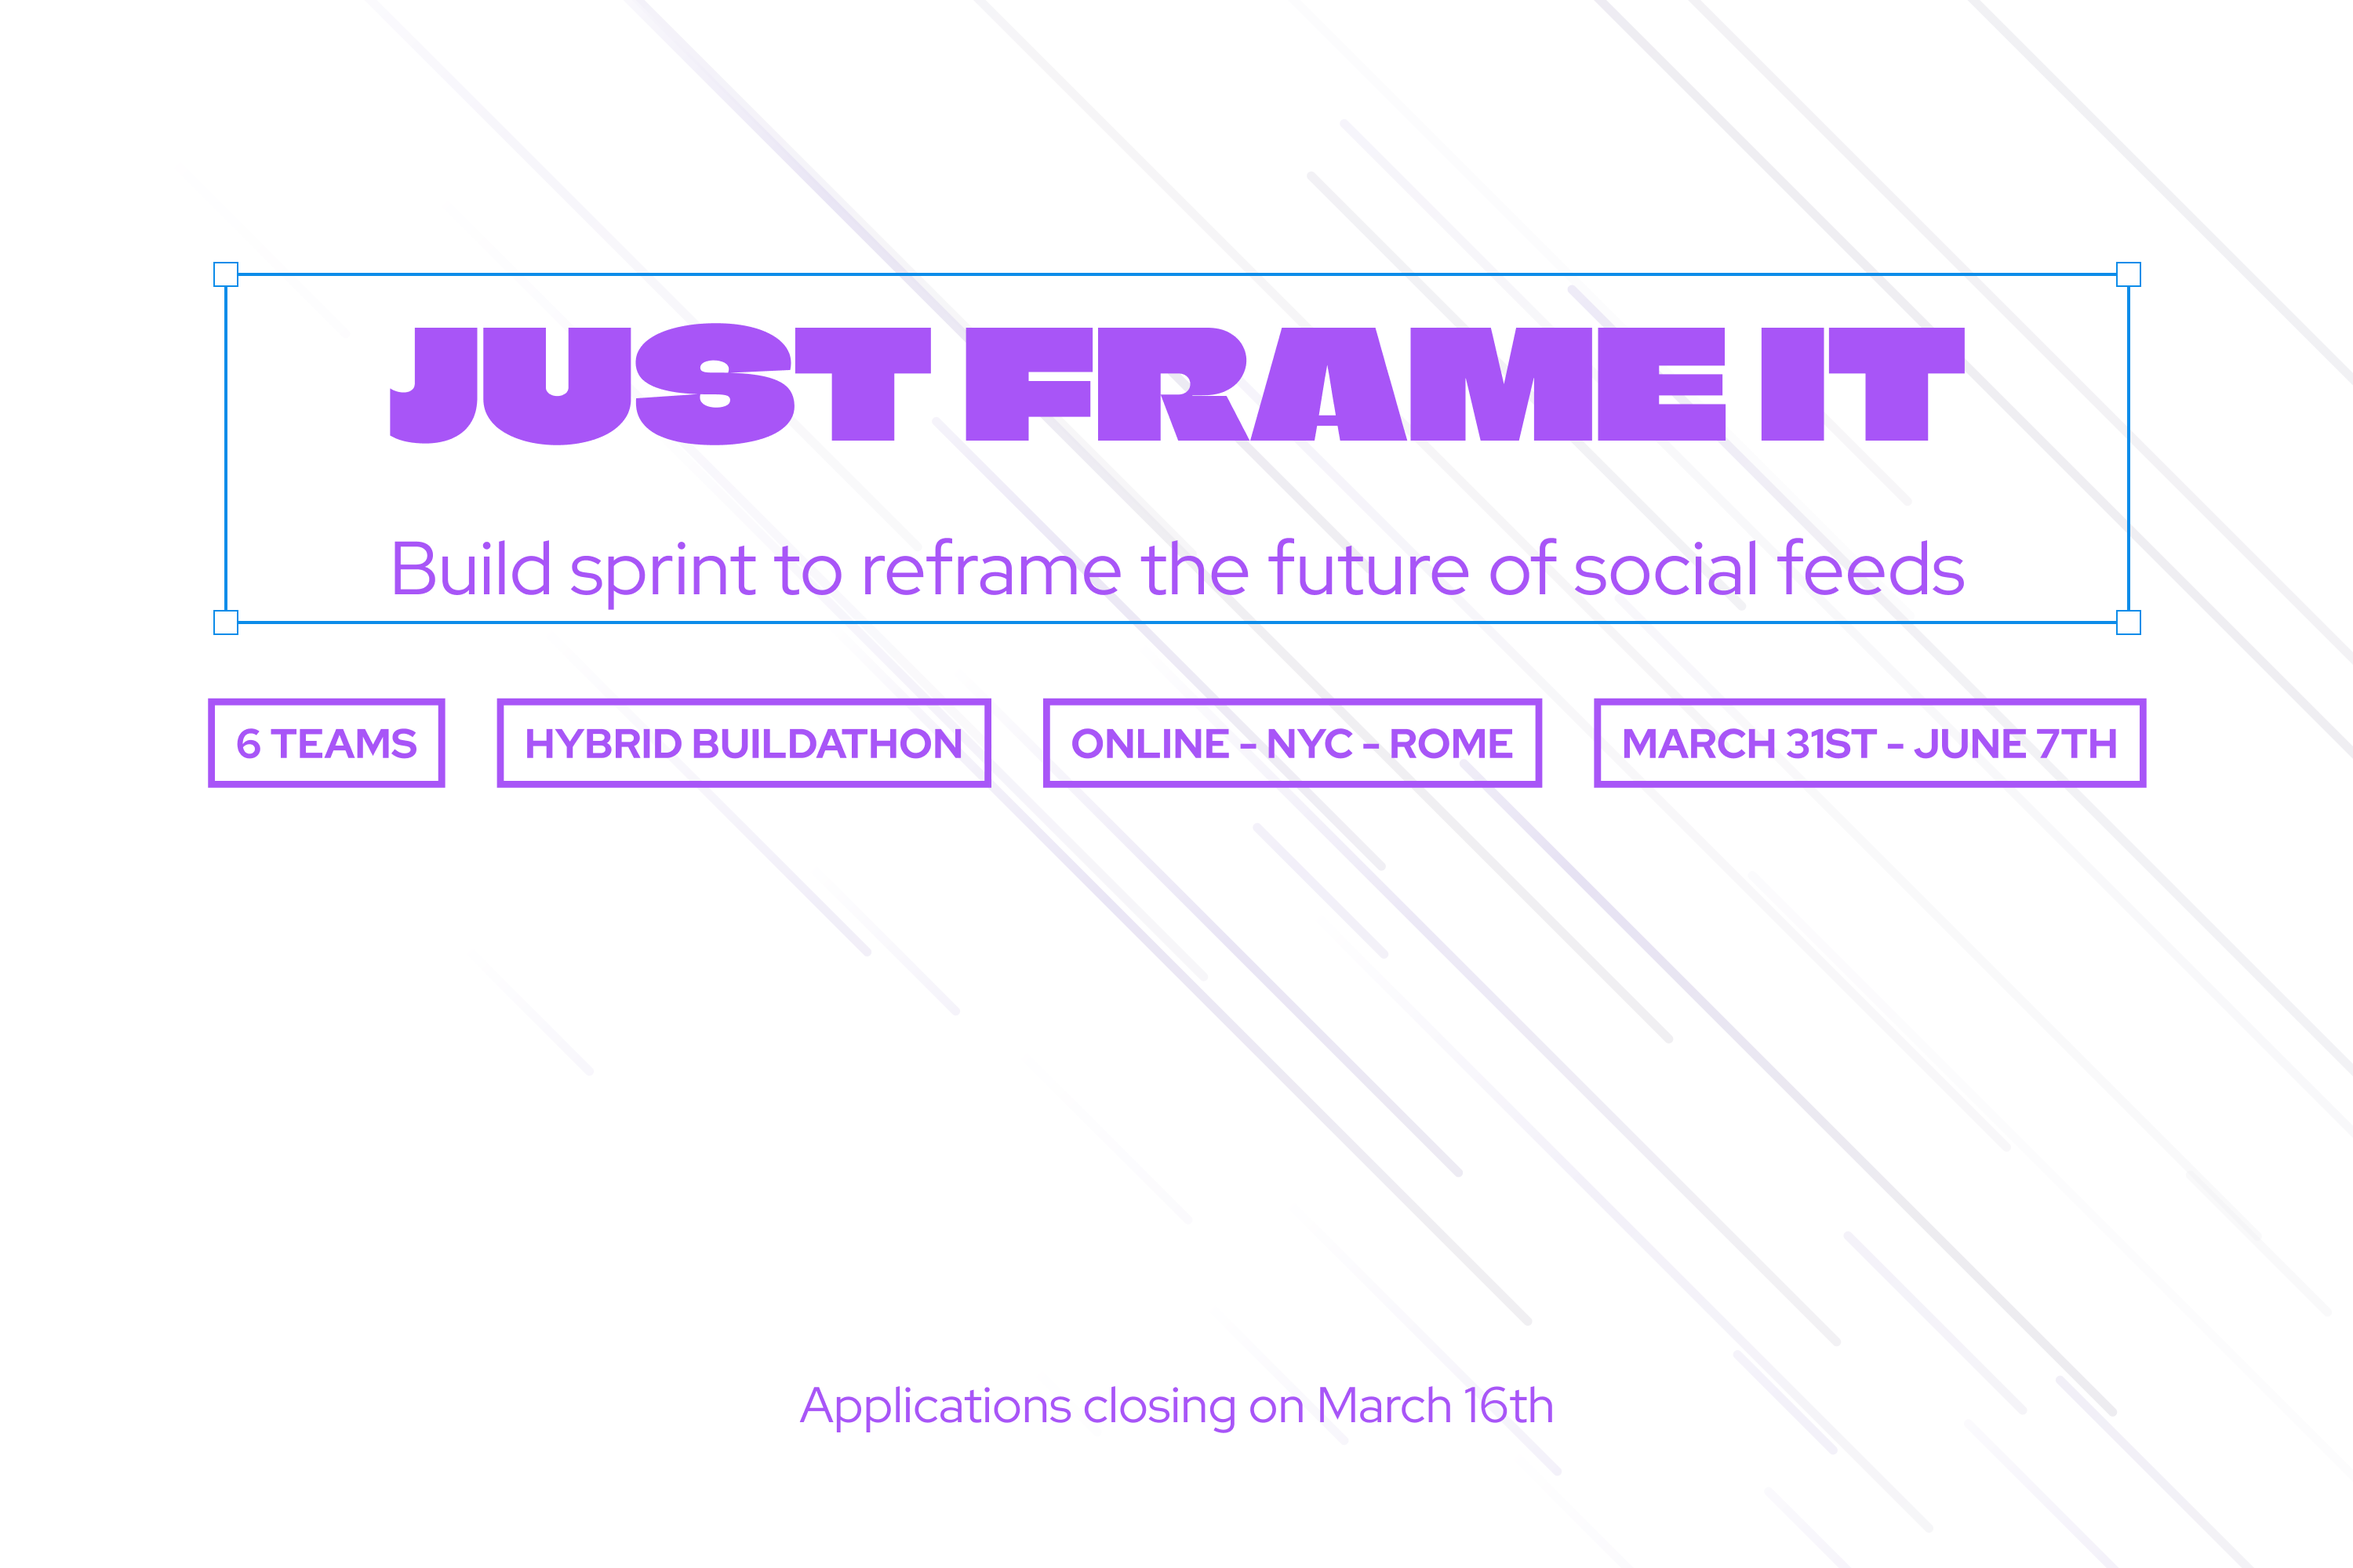
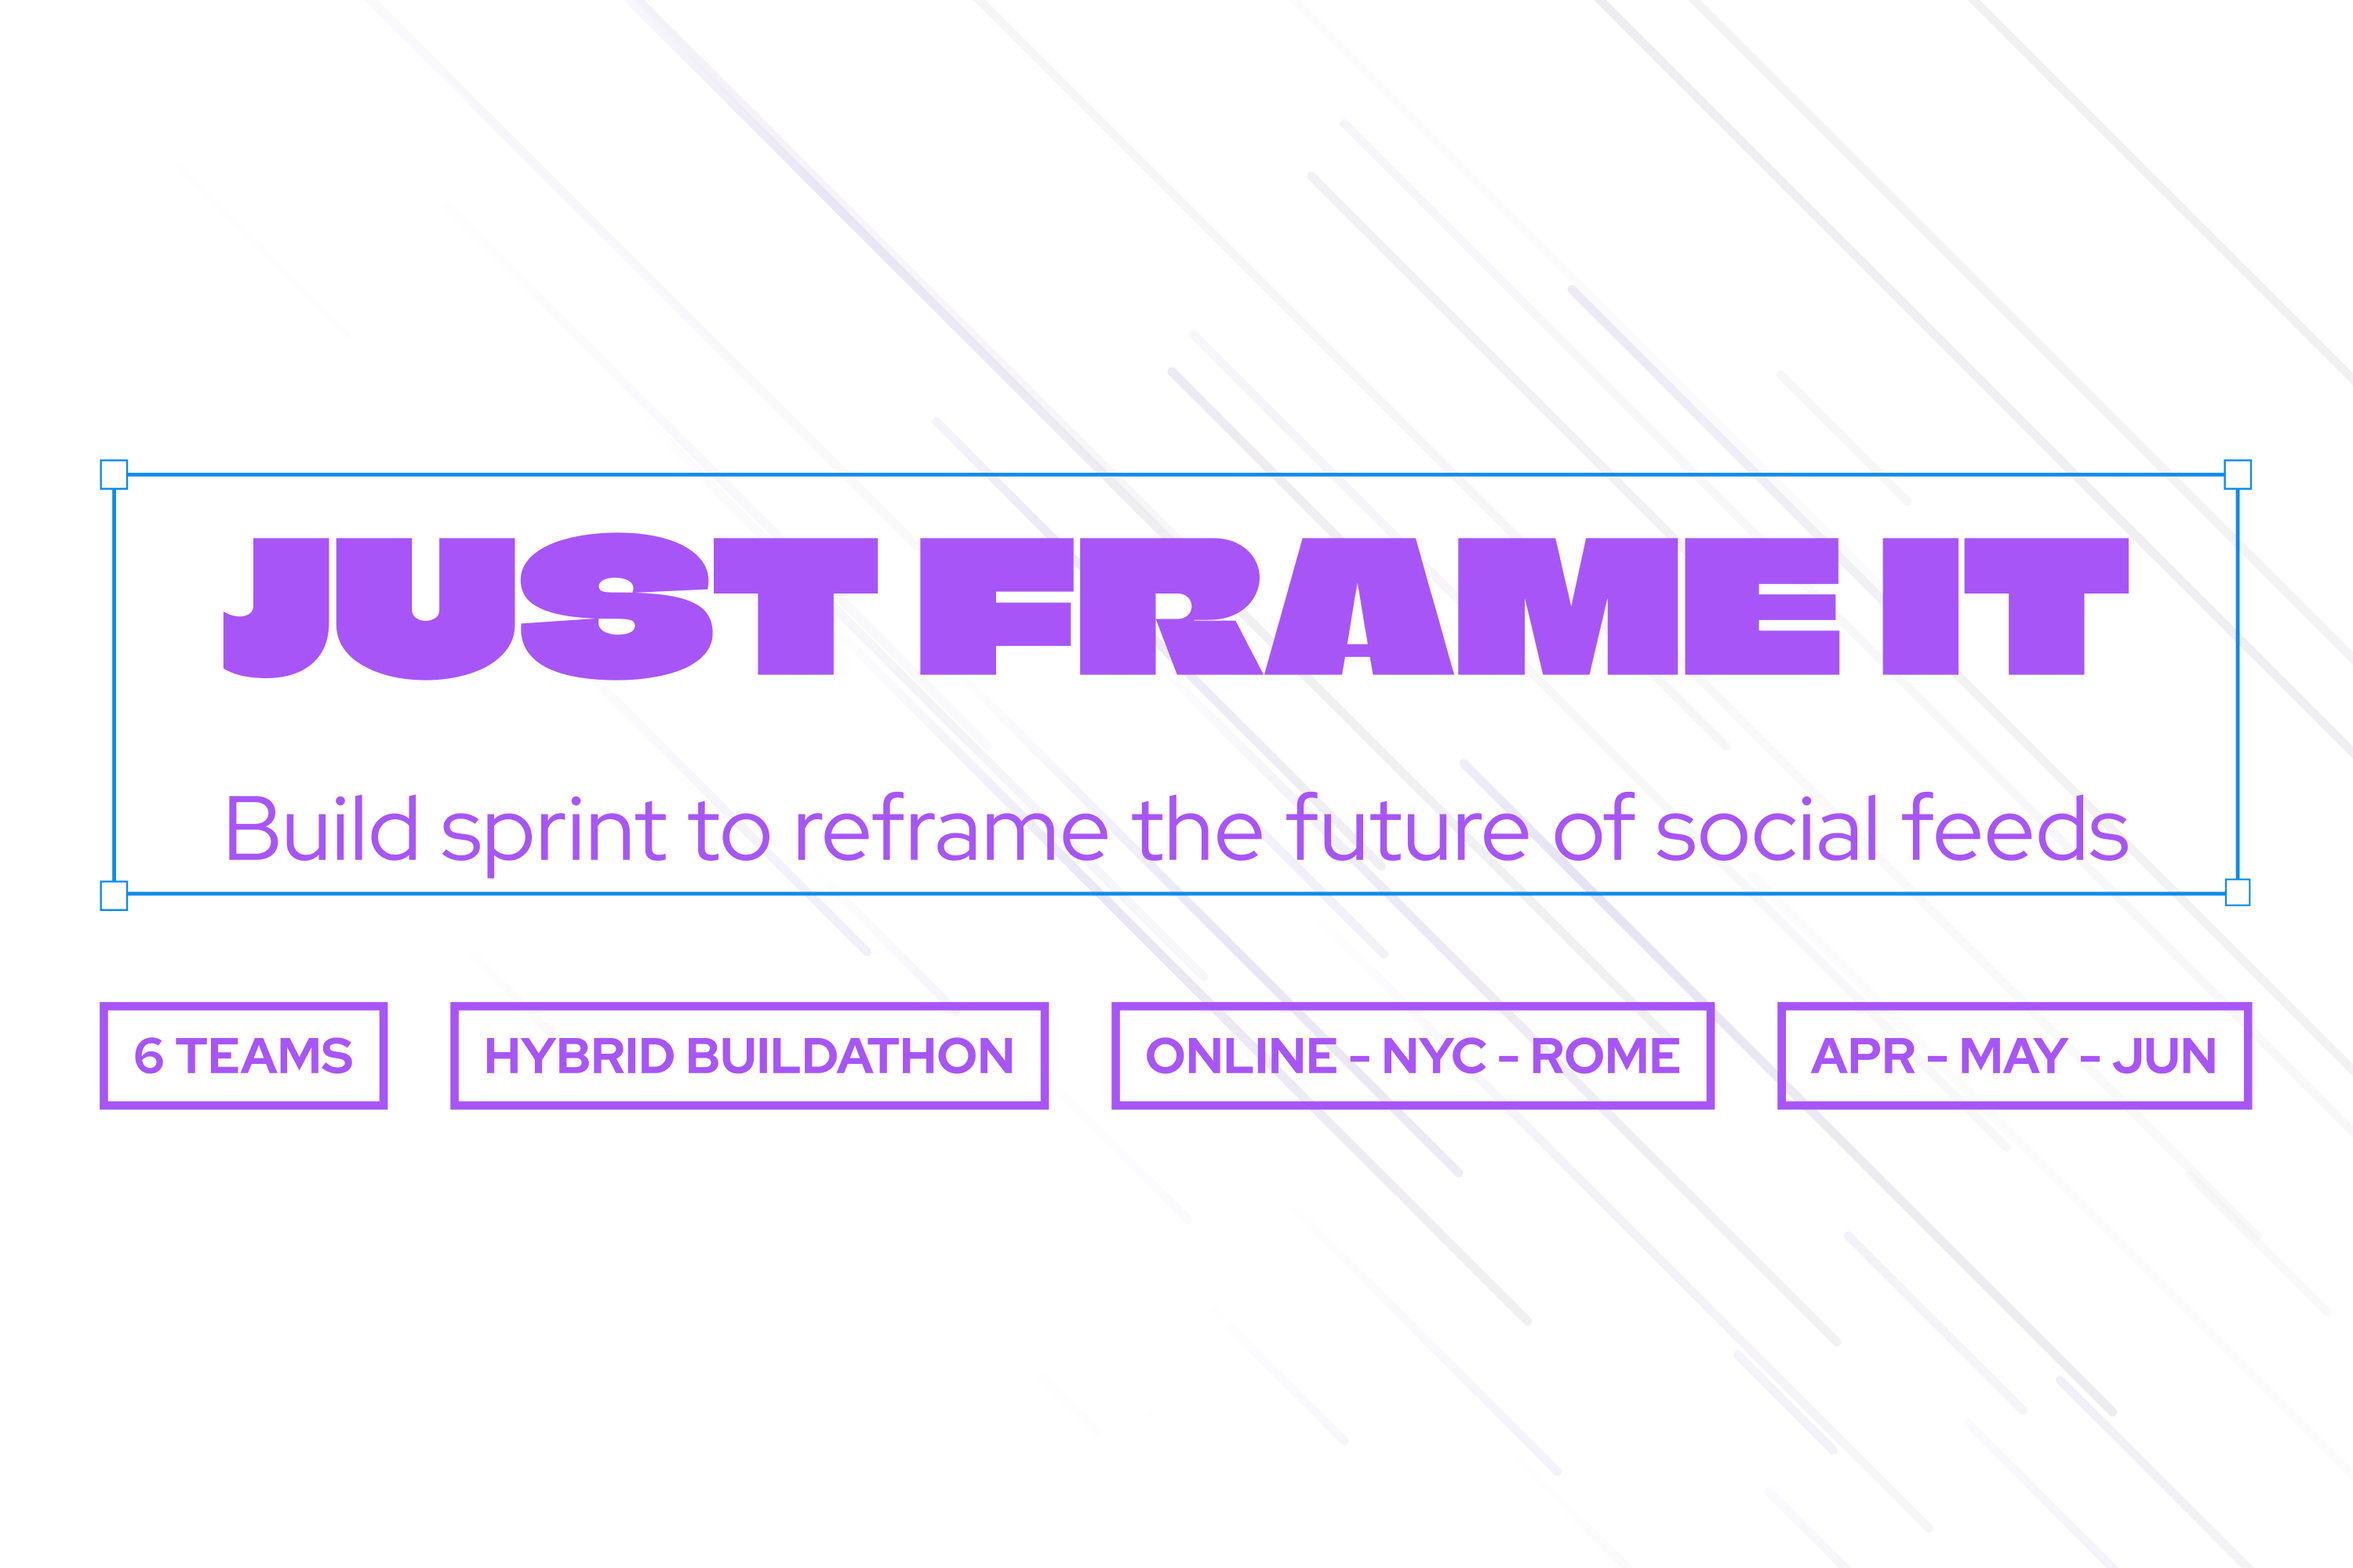
preview frame

diff --git a/components/ProgramInfoModal/index.tsx b/components/ProgramInfoModal/index.tsx
@@ -73,13 +73,18 @@ const mentors: MentorInfo[] = [
 ];
 
 const timelineEvents = [
-  { title: "Applications Open", date: "February 17th, 2025" },
-  { title: "Applications Close", date: "March 16th, 2025" },
-  { title: "Cohort Announced", date: "March 24th, 2025" },
-  { title: "Program Start", date: "March 31st, 2025" },
-  { title: "NYC Meetup", date: "May 1-4th, 2025" },
-  { title: "Rome Residency", date: "May 31st - June 6th, 2025" },
-  { title: "Final Demo Day", date: "June 7th, 2025" },
+  // { title: "Applications Open", date: "February 17th, 2025" },
+  // { title: "Applications Close", date: "March 16th, 2025" },
+  // { title: "Cohort Announced", date: "March 24th, 2025" },
+  // { title: "Program Start", date: "March 31st, 2025" },
+  // { title: "NYC Meetup", date: "May 1-4th, 2025" },
+  // { title: "Rome Build Residency", date: "May 31st - June 6th, 2025" },
+  // { title: "Final Demo Day", date: "June 7th, 2025" },
+  { title: "Applications Open", date: "February" },
+  { title: "Cohort Announced", date: "March" },
+  { title: "Program Start", date: "April" },
+  { title: "NYC Meetup (Farcon)", date: "May" },
+  { title: "Rome Build Residency", date: "June (1-week)" },
 ];
 
 export default function ProgramInfoModal({
@@ -233,7 +238,7 @@ export default function ProgramInfoModal({
                       <div className="absolute left-0 right-0 top-1/2 h-0.5 bg-purple-200"></div>
 
                       {/* Timeline events */}
-                      <div className="grid grid-cols-7">
+                      <div className="grid grid-cols-5">
                         {timelineEvents.map((event, index) => (
                           <div key={event.title} className="relative">
                             {/* Circle marker */}
